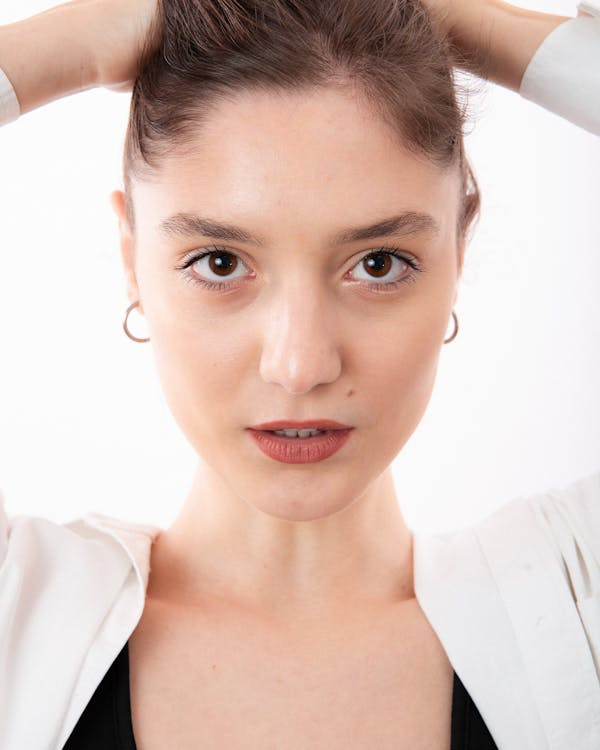
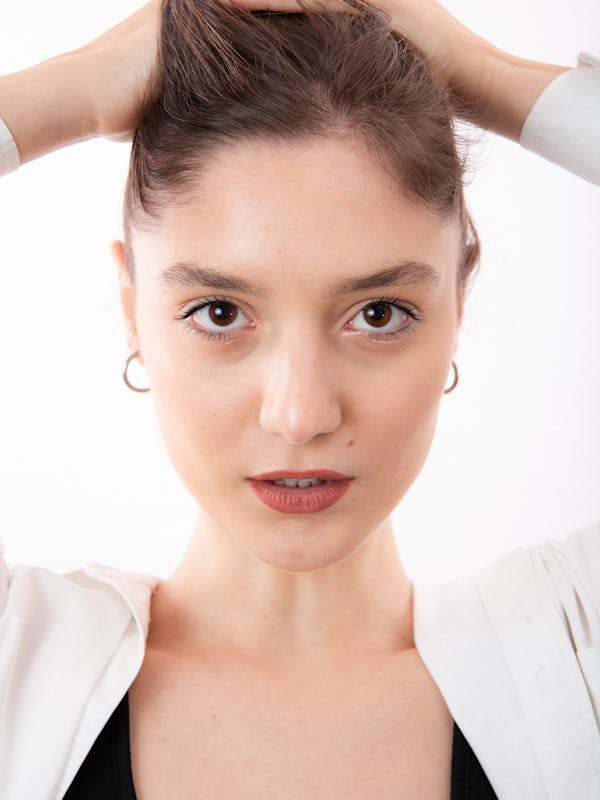
Fix face map: bottom-crop image + recalibrate all zones to 600x800
Uses crop=bottom to show face area instead of hands/hair.
Updated viewBox to 600x800, paddingBottom to 133.33%.
Recalibrated all 19 zones to match new image face position.

diff --git a/app/dashboard/patients/[id]/FaceMapClient.tsx b/app/dashboard/patients/[id]/FaceMapClient.tsx
@@ -4,7 +4,7 @@ import { useState } from "react";
 import Image from "next/image";
 
 // Photo credit: Aleksandar Andreev via Pexels (free to use)
-// Image: 600×750px face-cropped, face centered X:100-500, forehead ~Y:60, chin ~Y:560
+// Image: 600×800px bottom-cropped, face starts ~Y:50, chin ~Y:620
 
 const FACE_MARKERS = [
   { key: "botox",    labelAr: "بوتوكس",           color: "#2563eb" },
@@ -17,7 +17,7 @@ const FACE_MARKERS = [
   { key: "other",    labelAr: "أخرى",              color: "#6b7280" },
 ];
 
-// SVG viewBox: 0 0 600 750 — face crop, center X=300
+// SVG viewBox: 0 0 600 800 — bottom crop, face center X=300
 // Patient right = screen LEFT (standard medical convention)
 type Zone = {
   id: string;
@@ -29,30 +29,30 @@ type Zone = {
 
 const ZONES: Zone[] = [
   // ── Upper face ──
-  { id: "forehead",       labelAr: "الجبهة",                      shape: "rect",    x: 148, y: 55,  w: 304, h: 100, rx: 18 },
-  { id: "glabella",       labelAr: "بين الحاجبين (خطوط الغضب)",   shape: "ellipse", cx: 300, cy: 195, rx: 48, ry: 26 },
+  { id: "forehead",       labelAr: "الجبهة",                      shape: "rect",    x: 148, y: 50,  w: 304, h: 110, rx: 18 },
+  { id: "glabella",       labelAr: "بين الحاجبين (خطوط الغضب)",   shape: "ellipse", cx: 300, cy: 200, rx: 48, ry: 26 },
   // ── Eyes ──
-  { id: "r_crows_feet",   labelAr: "أرجل الغراب — يمين",          shape: "ellipse", cx: 148, cy: 225, rx: 46, ry: 26 },
-  { id: "l_crows_feet",   labelAr: "أرجل الغراب — يسار",          shape: "ellipse", cx: 452, cy: 225, rx: 46, ry: 26 },
-  { id: "r_under_eye",    labelAr: "تحت العين — يمين",             shape: "ellipse", cx: 198, cy: 258, rx: 52, ry: 20 },
-  { id: "l_under_eye",    labelAr: "تحت العين — يسار",             shape: "ellipse", cx: 402, cy: 258, rx: 52, ry: 20 },
+  { id: "r_crows_feet",   labelAr: "أرجل الغراب — يمين",          shape: "ellipse", cx: 148, cy: 235, rx: 46, ry: 26 },
+  { id: "l_crows_feet",   labelAr: "أرجل الغراب — يسار",          shape: "ellipse", cx: 452, cy: 235, rx: 46, ry: 26 },
+  { id: "r_under_eye",    labelAr: "تحت العين — يمين",             shape: "ellipse", cx: 198, cy: 268, rx: 52, ry: 20 },
+  { id: "l_under_eye",    labelAr: "تحت العين — يسار",             shape: "ellipse", cx: 402, cy: 268, rx: 52, ry: 20 },
   // ── Mid face ──
-  { id: "r_cheek",        labelAr: "الخد الأيمن",                  shape: "ellipse", cx: 150, cy: 350, rx: 58, ry: 65 },
-  { id: "l_cheek",        labelAr: "الخد الأيسر",                  shape: "ellipse", cx: 450, cy: 350, rx: 58, ry: 65 },
-  { id: "nose",           labelAr: "الأنف / خطوط الأرنبة",        shape: "ellipse", cx: 300, cy: 330, rx: 36, ry: 48 },
-  { id: "r_nasolabial",   labelAr: "الطية الأنفية الشفوية — يمين", shape: "ellipse", cx: 216, cy: 378, rx: 26, ry: 50 },
-  { id: "l_nasolabial",   labelAr: "الطية الأنفية الشفوية — يسار", shape: "ellipse", cx: 384, cy: 378, rx: 26, ry: 50 },
+  { id: "r_cheek",        labelAr: "الخد الأيمن",                  shape: "ellipse", cx: 148, cy: 370, rx: 58, ry: 68 },
+  { id: "l_cheek",        labelAr: "الخد الأيسر",                  shape: "ellipse", cx: 452, cy: 370, rx: 58, ry: 68 },
+  { id: "nose",           labelAr: "الأنف / خطوط الأرنبة",        shape: "ellipse", cx: 300, cy: 345, rx: 36, ry: 52 },
+  { id: "r_nasolabial",   labelAr: "الطية الأنفية الشفوية — يمين", shape: "ellipse", cx: 214, cy: 398, rx: 26, ry: 52 },
+  { id: "l_nasolabial",   labelAr: "الطية الأنفية الشفوية — يسار", shape: "ellipse", cx: 386, cy: 398, rx: 26, ry: 52 },
   // ── Mouth ──
-  { id: "upper_lip",      labelAr: "الشفة العليا",                 shape: "ellipse", cx: 300, cy: 510, rx: 65, ry: 22 },
-  { id: "lower_lip",      labelAr: "الشفة السفلى",                 shape: "ellipse", cx: 300, cy: 535, rx: 65, ry: 22 },
+  { id: "upper_lip",      labelAr: "الشفة العليا",                 shape: "ellipse", cx: 300, cy: 475, rx: 65, ry: 22 },
+  { id: "lower_lip",      labelAr: "الشفة السفلى",                 shape: "ellipse", cx: 300, cy: 508, rx: 65, ry: 22 },
   // ── Lower face ──
-  { id: "r_marionette",   labelAr: "خطوط الدمية — يمين",           shape: "ellipse", cx: 218, cy: 488, rx: 22, ry: 36 },
-  { id: "l_marionette",   labelAr: "خطوط الدمية — يسار",           shape: "ellipse", cx: 382, cy: 488, rx: 22, ry: 36 },
-  { id: "chin",           labelAr: "الذقن",                        shape: "ellipse", cx: 300, cy: 545, rx: 58, ry: 38 },
-  { id: "r_jaw",          labelAr: "الفك / الماستر — يمين",        shape: "ellipse", cx: 140, cy: 450, rx: 45, ry: 56 },
-  { id: "l_jaw",          labelAr: "الفك / الماستر — يسار",        shape: "ellipse", cx: 460, cy: 450, rx: 45, ry: 56 },
+  { id: "r_marionette",   labelAr: "خطوط الدمية — يمين",           shape: "ellipse", cx: 216, cy: 508, rx: 22, ry: 38 },
+  { id: "l_marionette",   labelAr: "خطوط الدمية — يسار",           shape: "ellipse", cx: 384, cy: 508, rx: 22, ry: 38 },
+  { id: "chin",           labelAr: "الذقن",                        shape: "ellipse", cx: 300, cy: 560, rx: 58, ry: 38 },
+  { id: "r_jaw",          labelAr: "الفك / الماستر — يمين",        shape: "ellipse", cx: 138, cy: 468, rx: 45, ry: 58 },
+  { id: "l_jaw",          labelAr: "الفك / الماستر — يسار",        shape: "ellipse", cx: 462, cy: 468, rx: 45, ry: 58 },
   // ── Neck ──
-  { id: "neck",           labelAr: "الرقبة / الأشرطة الرقبية",    shape: "rect",    x: 220, y: 610, w: 160, h: 60, rx: 20 },
+  { id: "neck",           labelAr: "الرقبة / الأشرطة الرقبية",    shape: "rect",    x: 218, y: 622, w: 164, h: 62, rx: 20 },
 ];
 
 type Annotation = { id: string; regionId: string; label: string; color: string; notes: string | null };
@@ -145,7 +145,7 @@ export default function FaceMapClient({
         width: "100%",
         maxWidth: 680,
         margin: "0 auto",
-        paddingBottom: "125%",
+        paddingBottom: "133.33%",
         borderRadius: 16,
         overflow: "hidden",
         border: "1px solid #e2e8f0",
@@ -159,7 +159,7 @@ export default function FaceMapClient({
           priority
         />
         <svg
-          viewBox="0 0 600 750"
+          viewBox="0 0 600 800"
           style={{
             position: "absolute", inset: 0,
             width: "100%", height: "100%",

diff --git a/app/dashboard/patients/[id]/report/BodyAnnotationReport.tsx b/app/dashboard/patients/[id]/report/BodyAnnotationReport.tsx
@@ -298,7 +298,7 @@ export default function BodyAnnotationReport({
     const labelMap = new Map(FACE.map(r => [r.id, r.labelAr]));
     return (
       <div style={{ display: "flex", gap: 20, alignItems: "flex-start" }}>
-        <ImageMap src="/face-map.jpg" vbW={600} vbH={750} regions={FACE} annotations={annotations} maxW={200} />
+        <ImageMap src="/face-map.jpg" vbW={600} vbH={800} regions={FACE} annotations={annotations} maxW={200} />
         <AnnList annotations={annotations} labelMap={labelMap} />
       </div>
     );
